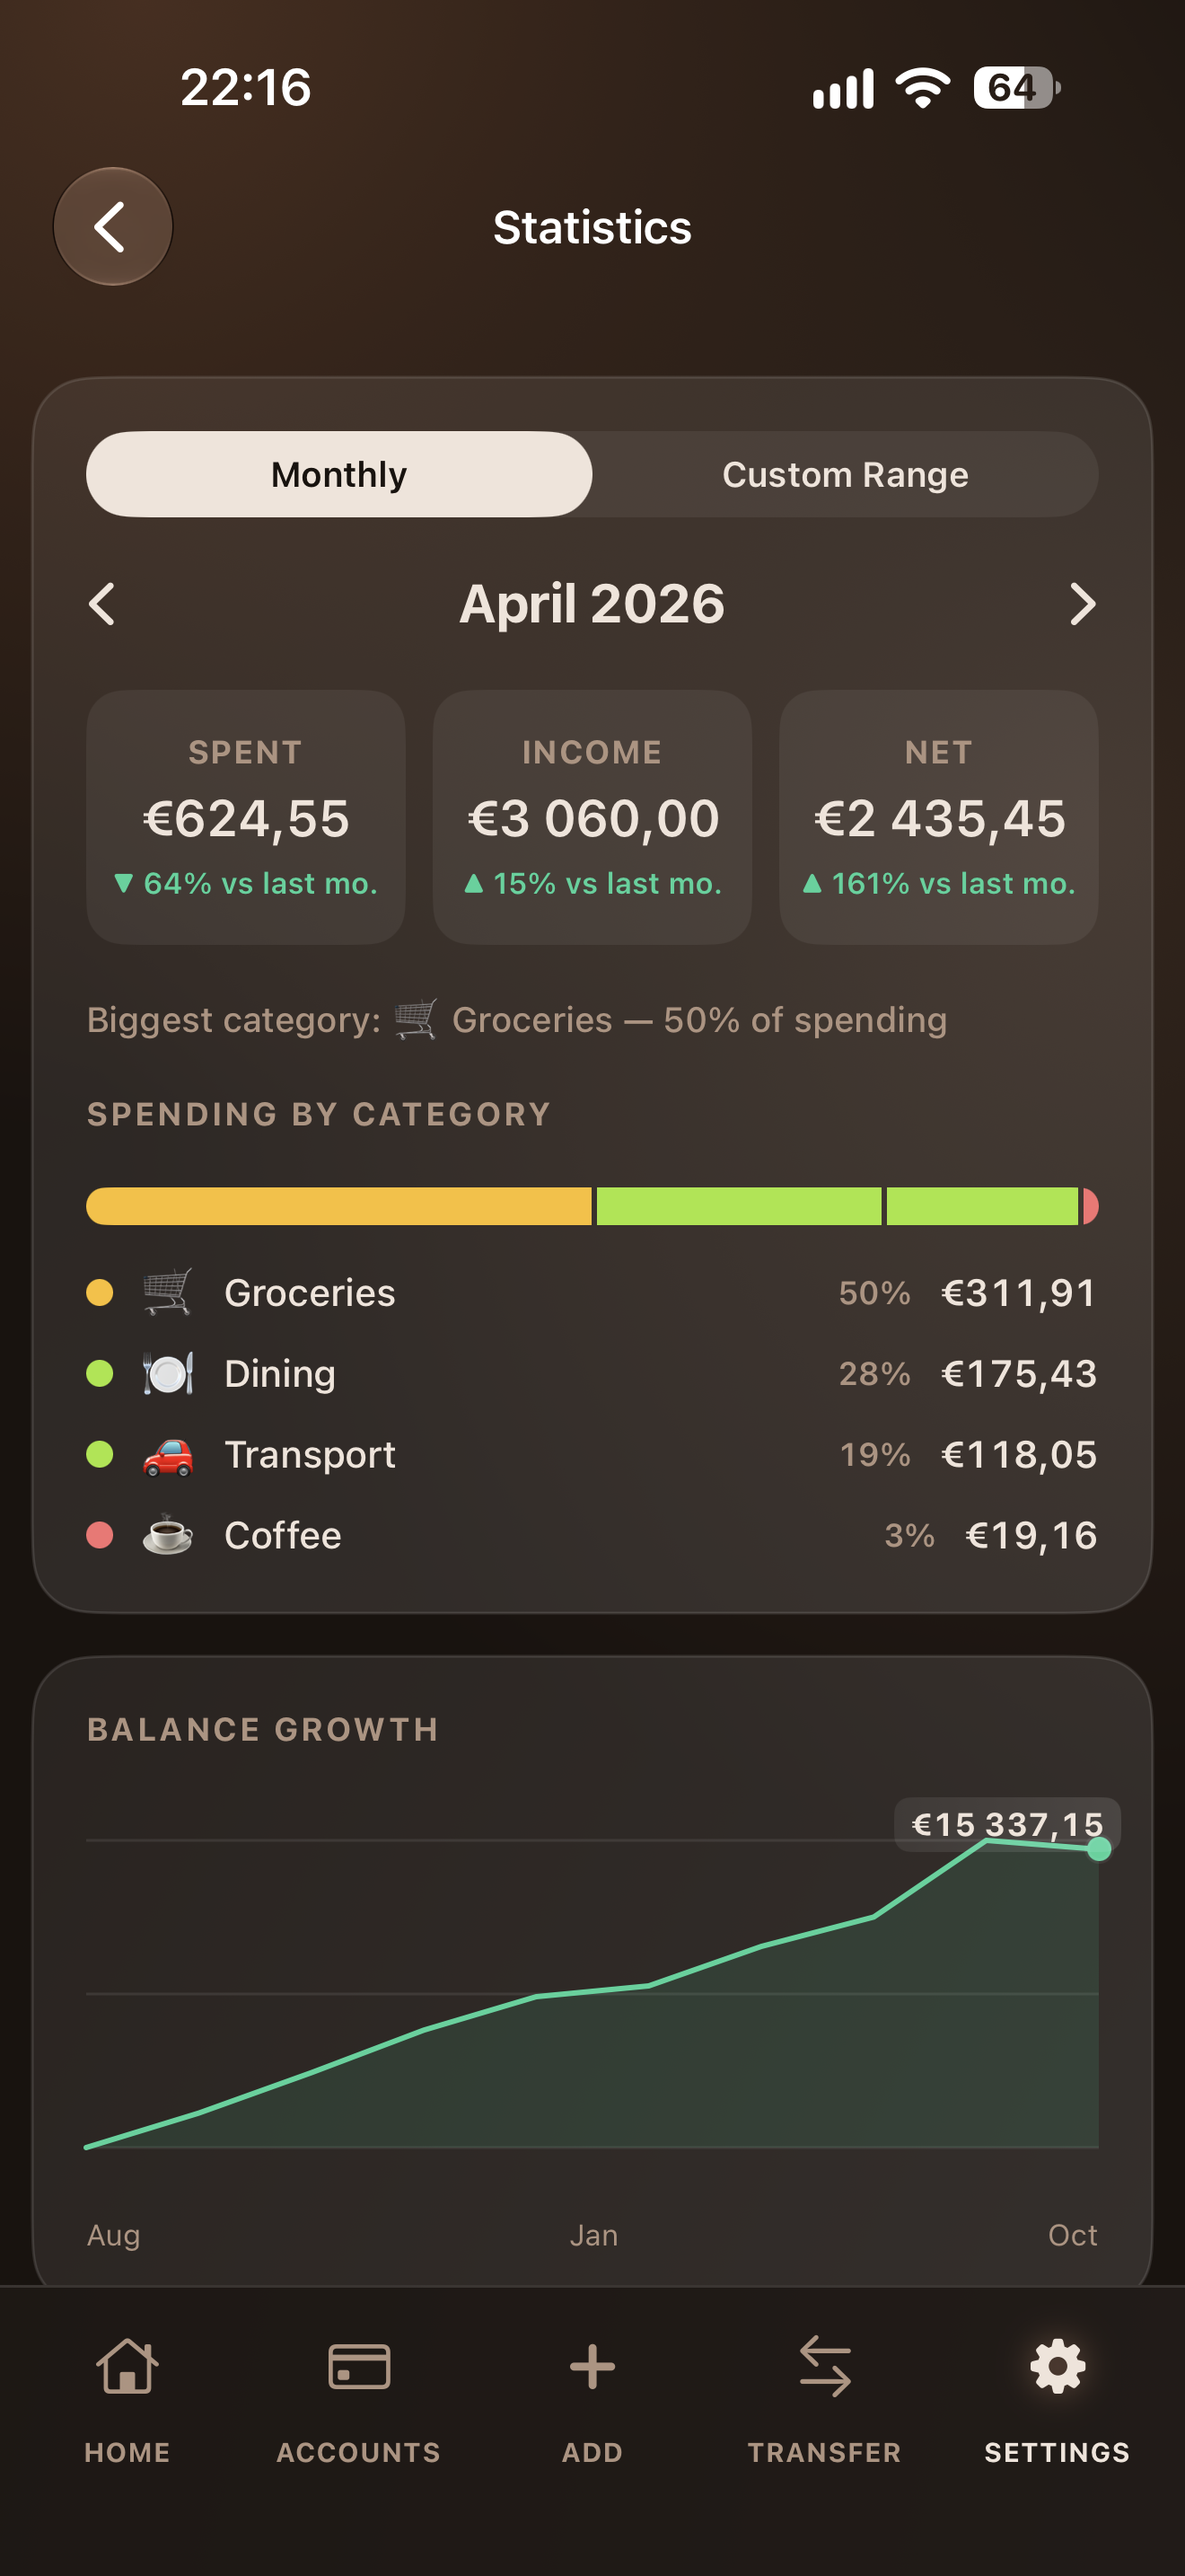
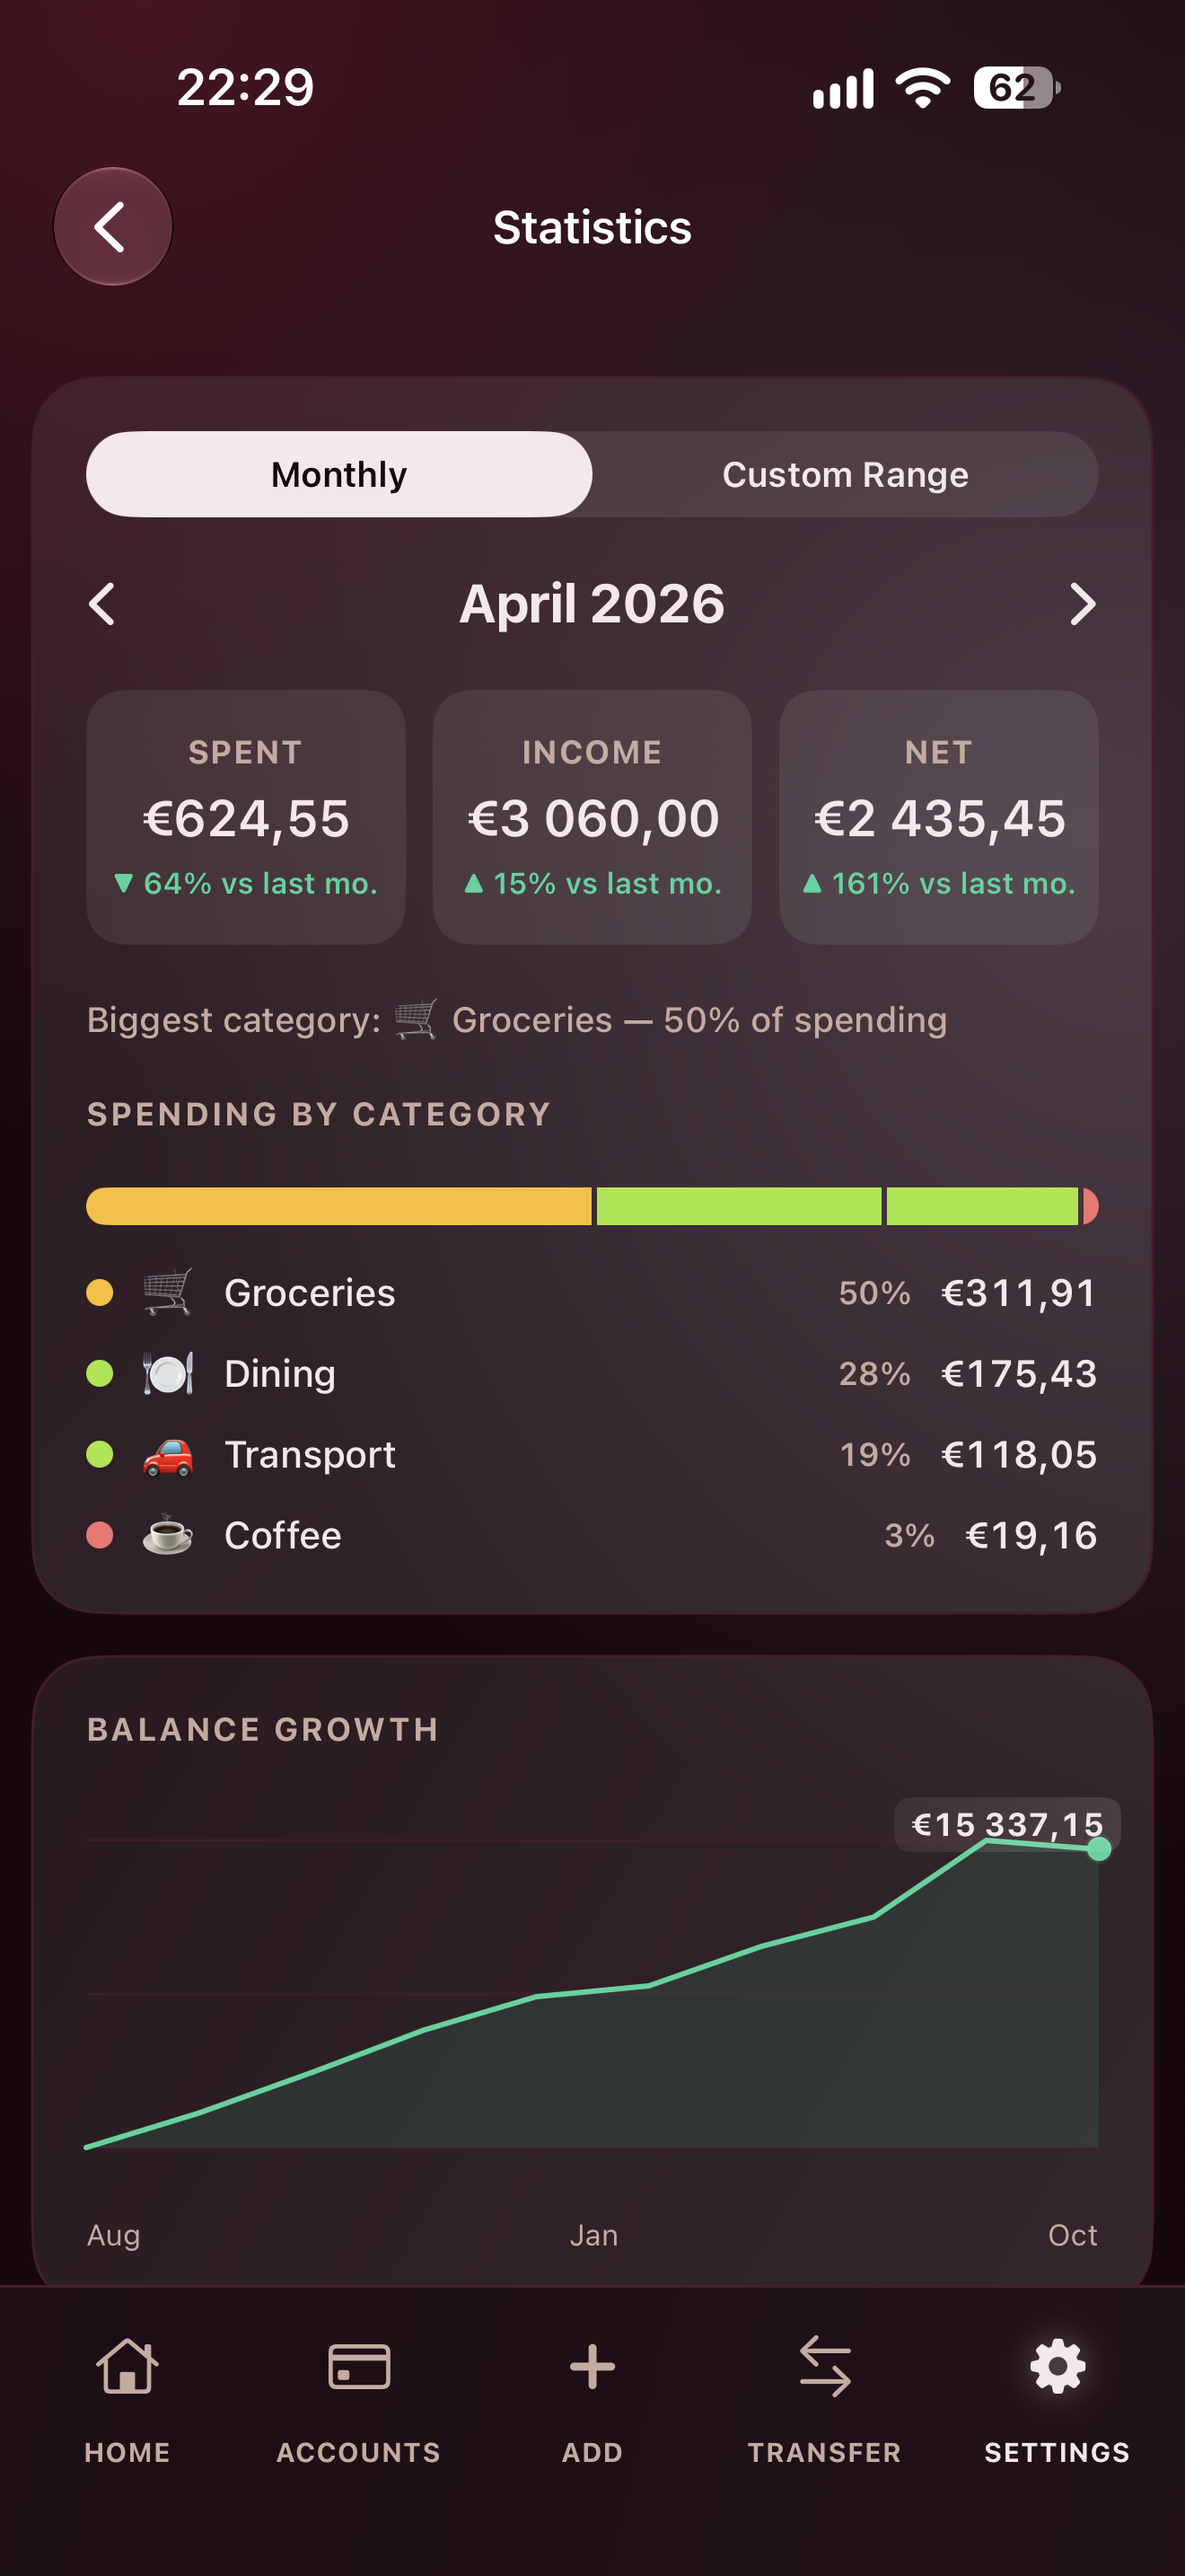
Website: Burgundy appearance screenshots (dashboard, add, accounts, currency, statistics, data and reports, settings); Settings tab replaces Lock until a Burgundy lock screen is captured

diff --git a/site/index.html b/site/index.html
@@ -260,14 +260,14 @@ footer a{text-decoration:none;display:inline-flex;min-height:44px;align-items:ce
   }
 
   /* showcase */
-  var SHORT=["Add","Accounts","Currency","Statistics","Reports","Lock"];
+  var SHORT=["Add","Accounts","Currency","Statistics","Reports","Settings"];
   var F=[
    ["shot-add-expense","Add an entry in a few taps","Expense or income, an account, a category. Or scan a receipt and let it fill in the amount, date and category.","New expense screen with a Scan button"],
    ["shot-accounts","Every account, its own character","Pick an icon and a color for each, then see income, expenses and entry count at a glance.","Accounts screen"],
    ["feature-currency","25 currencies, one tap for the rate","Add an account in any of them and fetch that day's exchange rate. Never type one in by hand.","Account with a currency and live rate"],
    ["shot-statistics","See where it actually went","Spent, income and net against last month, your biggest category in plain words, and a bar that breaks it down.","Statistics screen"],
    ["feature-reports","Reports out, statements in","A designed PDF, OFX, QFX or CSV imports, and a local backup you can restore whenever you need it.","Data and reports screen"],
-   ["feature-lockscreen","Locked until you open it","Face ID or a PIN keeps the app closed. Pick up to four lock screen shortcuts; each one still asks for Face ID first.","Lock screen"]
+   ["shot-settings","Make it yours, in one list","Currency, categories, appearance, security and lock screen shortcuts in one short list, with search when you need it.","Settings screen"]
   ];
   var tabs=document.getElementById('tabs'),view=document.getElementById('view'),cap=document.getElementById('cap'),cur=0;
   tabs.innerHTML=F.map(function(f,i){

diff --git a/templates/home.html b/templates/home.html
@@ -239,14 +239,14 @@ footer a{text-decoration:none;display:inline-flex;min-height:44px;align-items:ce
   }
 
   /* showcase */
-  var SHORT=["Add","Accounts","Currency","Statistics","Reports","Lock"];
+  var SHORT=["Add","Accounts","Currency","Statistics","Reports","Settings"];
   var F=[
    ["shot-add-expense","Add an entry in a few taps","Expense or income, an account, a category. Or scan a receipt and let it fill in the amount, date and category.","New expense screen with a Scan button"],
    ["shot-accounts","Every account, its own character","Pick an icon and a color for each, then see income, expenses and entry count at a glance.","Accounts screen"],
    ["feature-currency","25 currencies, one tap for the rate","Add an account in any of them and fetch that day's exchange rate. Never type one in by hand.","Account with a currency and live rate"],
    ["shot-statistics","See where it actually went","Spent, income and net against last month, your biggest category in plain words, and a bar that breaks it down.","Statistics screen"],
    ["feature-reports","Reports out, statements in","A designed PDF, OFX, QFX or CSV imports, and a local backup you can restore whenever you need it.","Data and reports screen"],
-   ["feature-lockscreen","Locked until you open it","Face ID or a PIN keeps the app closed. Pick up to four lock screen shortcuts; each one still asks for Face ID first.","Lock screen"]
+   ["shot-settings","Make it yours, in one list","Currency, categories, appearance, security and lock screen shortcuts in one short list, with search when you need it.","Settings screen"]
   ];
   var tabs=document.getElementById('tabs'),view=document.getElementById('view'),cap=document.getElementById('cap'),cur=0;
   tabs.innerHTML=F.map(function(f,i){
